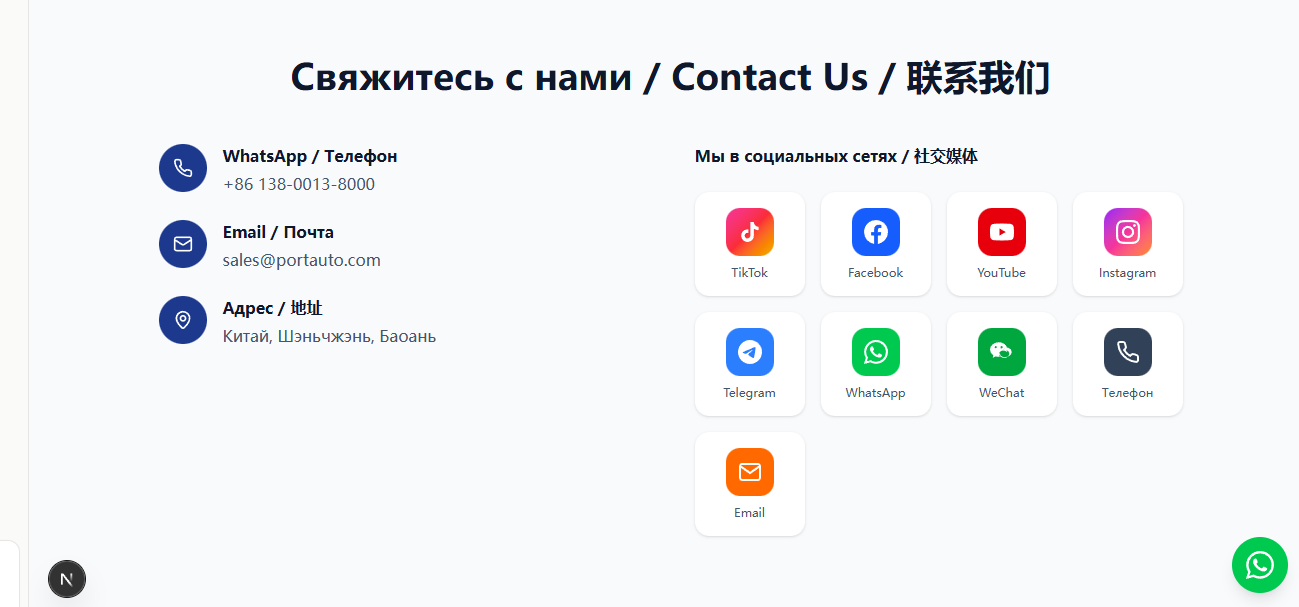
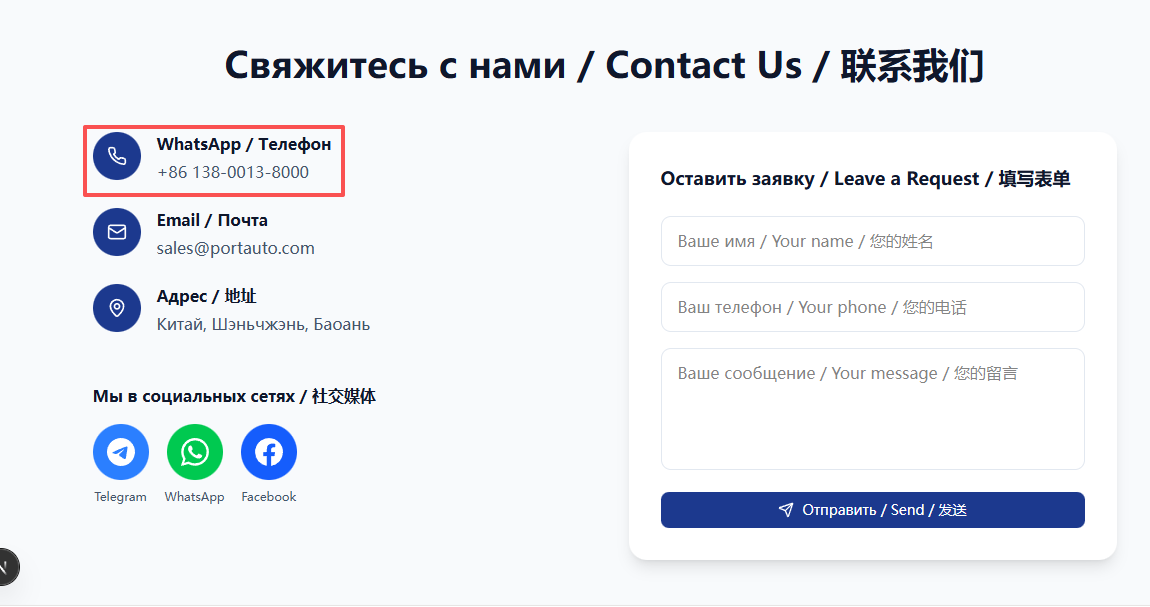
feat: 简化左侧联系方式

diff --git a/src/components/NewsSection.tsx b/src/components/NewsSection.tsx
@@ -1,7 +1,7 @@
 'use client';
 
 import { useState } from 'react';
-import { Phone, Mail, MapPin, Send } from 'lucide-react';
+import { Mail, Send } from 'lucide-react';
 import { Button } from '@/components/ui/button';
 
 export default function NewsSection() {
@@ -49,78 +49,35 @@ export default function NewsSection() {
             <div className="space-y-6">
               <div className="flex items-start gap-4">
                 <div className="w-12 h-12 bg-blue-900 rounded-full flex items-center justify-center flex-shrink-0">
-                  <Phone className="w-5 h-5 text-white" />
+                  <svg className="w-5 h-5 text-white" viewBox="0 0 24 24" fill="currentColor">
+                    <path d="M11.944 0A12 12 0 0 0 0 12a12 12 0 0 0 12 12 12 12 0 0 0 12-12A12 12 0 0 0 12 0a12 12 0 0 0-.056 0zm4.962 7.224c.1-.002.321.023.465.14a.506.506 0 0 1 .171.325c.016.093.036.306.02.472-.18 1.898-.962 6.502-1.36 8.627-.168.9-.499 1.201-.82 1.23-.696.065-1.225-.46-1.9-.902-1.056-.693-1.653-1.124-2.678-1.8-1.185-.78-.417-1.21.258-1.91.177-.184 3.247-2.977 3.307-3.23.007-.032.014-.15-.056-.212s-.174-.041-.249-.024c-.106.024-1.793 1.14-5.061 3.345-.48.33-.913.49-1.302.48-.428-.008-1.252-.241-1.865-.44-.752-.245-1.349-.374-1.297-.789.027-.216.325-.437.893-.663 3.498-1.524 5.83-2.529 6.998-3.014 3.332-1.386 4.025-1.627 4.476-1.635z"/>
+                  </svg>
                 </div>
                 <div>
-                  <h3 className="font-bold text-slate-900 mb-1">WhatsApp / Телефон</h3>
+                  <h3 className="font-bold text-slate-900 mb-1">Telegram</h3>
+                  <p className="text-slate-600">@portauto</p>
+                </div>
+              </div>
+
+              <div className="flex items-start gap-4">
+                <div className="w-12 h-12 bg-green-500 rounded-full flex items-center justify-center flex-shrink-0">
+                  <svg className="w-5 h-5 text-white" viewBox="0 0 24 24" fill="currentColor">
+                    <path d="M17.472 14.382c-.297-.149-1.758-.867-2.03-.967-.273-.099-.471-.148-.67.15-.197.297-.767.966-.94 1.164-.173.199-.347.223-.644.075-.297-.15-1.255-.463-2.39-1.475-.883-.788-1.48-1.761-1.653-2.059-.173-.297-.018-.458.13-.606.134-.133.298-.347.446-.52.149-.174.198-.298.298-.497.099-.198.05-.371-.025-.52-.075-.149-.669-1.612-.916-2.207-.242-.579-.487-.5-.669-.51-.173-.008-.371-.01-.57-.01-.198 0-.52.074-.792.372-.272.297-1.04 1.016-1.04 2.479 0 1.462 1.065 2.875 1.213 3.074.149.198 2.096 3.2 5.077 4.487.709.306 1.262.489 1.694.625.712.227 1.36.195 1.871.118.571-.085 1.758-.719 2.006-1.413.248-.694.248-1.289.173-1.413-.074-.124-.272-.198-.57-.347m-5.421 7.403h-.004a9.87 9.87 0 01-5.031-1.378l-.361-.214-3.741.982.998-3.648-.235-.374a9.86 9.86 0 01-1.51-5.26c.001-5.45 4.436-9.884 9.888-9.884 2.64 0 5.122 1.03 6.988 2.898a9.825 9.825 0 012.893 6.994c-.003 5.45-4.437 9.884-9.885 9.884m8.413-18.297A11.815 11.815 0 0012.05 0C5.495 0 .16 5.335.157 11.892c0 2.096.547 4.142 1.588 5.945L.057 24l6.305-1.654a11.882 11.882 0 005.683 1.448h.005c6.554 0 11.89-5.335 11.893-11.893a11.821 11.821 0 00-3.48-8.413z"/>
+                  </svg>
+                </div>
+                <div>
+                  <h3 className="font-bold text-slate-900 mb-1">WhatsApp</h3>
                   <p className="text-slate-600">+86 138-0013-8000</p>
                 </div>
               </div>
 
               <div className="flex items-start gap-4">
-                <div className="w-12 h-12 bg-blue-900 rounded-full flex items-center justify-center flex-shrink-0">
+                <div className="w-12 h-12 bg-orange-500 rounded-full flex items-center justify-center flex-shrink-0">
                   <Mail className="w-5 h-5 text-white" />
                 </div>
                 <div>
                   <h3 className="font-bold text-slate-900 mb-1">Email / Почта</h3>
                   <p className="text-slate-600">sales@portauto.com</p>
-                </div>
-              </div>
-
-              <div className="flex items-start gap-4">
-                <div className="w-12 h-12 bg-blue-900 rounded-full flex items-center justify-center flex-shrink-0">
-                  <MapPin className="w-5 h-5 text-white" />
-                </div>
-                <div>
-                  <h3 className="font-bold text-slate-900 mb-1">Адрес / 地址</h3>
-                  <p className="text-slate-600">Китай, Шэньчжэнь, Баоань</p>
-                </div>
-              </div>
-
-              {/* Social Media - Horizontal */}
-              <div className="pt-6">
-                <h3 className="font-bold text-slate-900 mb-4">
-                  Мы в социальных сетях / 社交媒体
-                </h3>
-                <div className="flex items-center gap-4">
-                  {/* Telegram */}
-                  <a 
-                    href="#" 
-                    className="group flex flex-col items-center gap-2"
-                  >
-                    <div className="w-14 h-14 bg-blue-500 rounded-full flex items-center justify-center hover:scale-110 transition-transform">
-                      <svg className="w-7 h-7 text-white" viewBox="0 0 24 24" fill="currentColor">
-                        <path d="M11.944 0A12 12 0 0 0 0 12a12 12 0 0 0 12 12 12 12 0 0 0 12-12A12 12 0 0 0 12 0a12 12 0 0 0-.056 0zm4.962 7.224c.1-.002.321.023.465.14a.506.506 0 0 1 .171.325c.016.093.036.306.02.472-.18 1.898-.962 6.502-1.36 8.627-.168.9-.499 1.201-.82 1.23-.696.065-1.225-.46-1.9-.902-1.056-.693-1.653-1.124-2.678-1.8-1.185-.78-.417-1.21.258-1.91.177-.184 3.247-2.977 3.307-3.23.007-.032.014-.15-.056-.212s-.174-.041-.249-.024c-.106.024-1.793 1.14-5.061 3.345-.48.33-.913.49-1.302.48-.428-.008-1.252-.241-1.865-.44-.752-.245-1.349-.374-1.297-.789.027-.216.325-.437.893-.663 3.498-1.524 5.83-2.529 6.998-3.014 3.332-1.386 4.025-1.627 4.476-1.635z"/>
-                      </svg>
-                    </div>
-                    <span className="text-xs text-slate-600">Telegram</span>
-                  </a>
-
-                  {/* WhatsApp */}
-                  <a 
-                    href="#" 
-                    className="group flex flex-col items-center gap-2"
-                  >
-                    <div className="w-14 h-14 bg-green-500 rounded-full flex items-center justify-center hover:scale-110 transition-transform">
-                      <svg className="w-7 h-7 text-white" viewBox="0 0 24 24" fill="currentColor">
-                        <path d="M17.472 14.382c-.297-.149-1.758-.867-2.03-.967-.273-.099-.471-.148-.67.15-.197.297-.767.966-.94 1.164-.173.199-.347.223-.644.075-.297-.15-1.255-.463-2.39-1.475-.883-.788-1.48-1.761-1.653-2.059-.173-.297-.018-.458.13-.606.134-.133.298-.347.446-.52.149-.174.198-.298.298-.497.099-.198.05-.371-.025-.52-.075-.149-.669-1.612-.916-2.207-.242-.579-.487-.5-.669-.51-.173-.008-.371-.01-.57-.01-.198 0-.52.074-.792.372-.272.297-1.04 1.016-1.04 2.479 0 1.462 1.065 2.875 1.213 3.074.149.198 2.096 3.2 5.077 4.487.709.306 1.262.489 1.694.625.712.227 1.36.195 1.871.118.571-.085 1.758-.719 2.006-1.413.248-.694.248-1.289.173-1.413-.074-.124-.272-.198-.57-.347m-5.421 7.403h-.004a9.87 9.87 0 01-5.031-1.378l-.361-.214-3.741.982.998-3.648-.235-.374a9.86 9.86 0 01-1.51-5.26c.001-5.45 4.436-9.884 9.888-9.884 2.64 0 5.122 1.03 6.988 2.898a9.825 9.825 0 012.893 6.994c-.003 5.45-4.437 9.884-9.885 9.884m8.413-18.297A11.815 11.815 0 0012.05 0C5.495 0 .16 5.335.157 11.892c0 2.096.547 4.142 1.588 5.945L.057 24l6.305-1.654a11.882 11.882 0 005.683 1.448h.005c6.554 0 11.89-5.335 11.893-11.893a11.821 11.821 0 00-3.48-8.413z"/>
-                      </svg>
-                    </div>
-                    <span className="text-xs text-slate-600">WhatsApp</span>
-                  </a>
-
-                  {/* Facebook */}
-                  <a 
-                    href="#" 
-                    className="group flex flex-col items-center gap-2"
-                  >
-                    <div className="w-14 h-14 bg-blue-600 rounded-full flex items-center justify-center hover:scale-110 transition-transform">
-                      <svg className="w-7 h-7 text-white" viewBox="0 0 24 24" fill="currentColor">
-                        <path d="M24 12.073c0-6.627-5.373-12-12-12s-12 5.373-12 12c0 5.99 4.388 10.954 10.125 11.854v-8.385H7.078v-3.47h3.047V9.43c0-3.007 1.792-4.669 4.533-4.669 1.312 0 2.686.235 2.686.235v2.953H15.83c-1.491 0-1.956.925-1.956 1.874v2.25h3.328l-.532 3.47h-2.796v8.385C19.612 23.027 24 18.062 24 12.073z"/>
-                      </svg>
-                    </div>
-                    <span className="text-xs text-slate-600">Facebook</span>
-                  </a>
                 </div>
               </div>
             </div>
